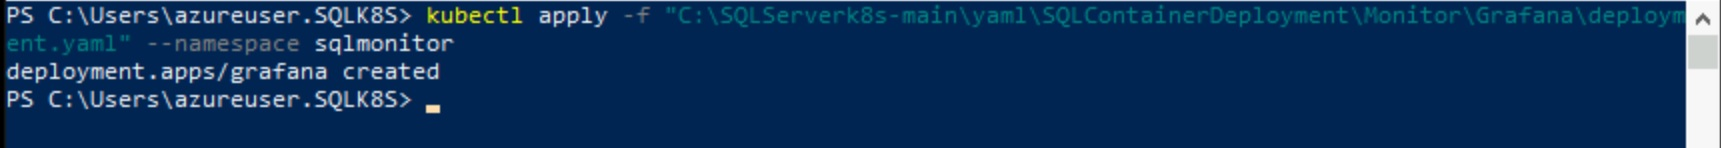
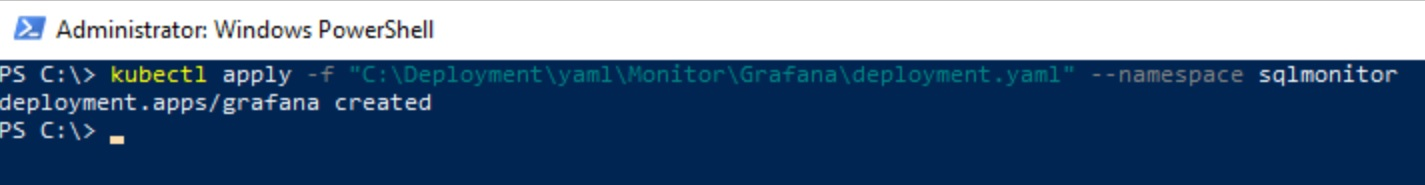
Update screenshots for monitor.md

diff --git a/modules/monitor.md b/modules/monitor.md
@@ -10,11 +10,18 @@ For this solution, you will be using InfluxDB to store the metric data, Telegraf
 
     ![Supply AD Credentials](media/SupplyADCredentials.jpg)
 
-2. Open Powershell
+2. Edit the following yaml files and replace all occurrences of \<IP Address Value\> with the parameter you supplied in the ARM template deployment.
+
+    * C:\Deployment\yaml\Monitor\Grafana\service.yaml
+    * C:\Deployment\yaml\Monitor\InfluxDB\service.yaml
+
+    ![Edit Yaml File](media/EditYamlFileGrafana.jpg)
+
+3. Open Powershell
 
     ![Open Powershell](media/OpenPowershell.jpg)
 
-3. Login to Azure AD with an account that has ownership permissions to your subscription
+4. Login to Azure AD with an account that has ownership permissions to your subscription
 
     ```text
     az login
@@ -26,7 +33,7 @@ For this solution, you will be using InfluxDB to store the metric data, Telegraf
 
     ![Azure CLI SignedIn Powershell](media/AzureCLISignedInPowershell.jpg)
 
-4. Create sqlmonitor namespace
+5. Create sqlmonitor namespace
 
     ```text
     kubectl create namespace sqlmonitor
@@ -34,7 +41,7 @@ For this solution, you will be using InfluxDB to store the metric data, Telegraf
 
     ![Create sqlmonitor Namespace](media/CreateSQLMonitorNamespace.jpg)
 
-5. Configure storage for InfluxDB
+6. Configure storage for InfluxDB
 
     ```text
     kubectl apply -f "C:\Deployment\yaml\Monitor\InfluxDB\storage.yaml" --namespace sqlmonitor
@@ -42,7 +49,7 @@ For this solution, you will be using InfluxDB to store the metric data, Telegraf
 
     ![Configure InfluxDB Storage](media/ConfigureInfluxDBStorage.jpg)
 
-6. Deploy InfluxDB
+7. Deploy InfluxDB
 
     ```text
     kubectl apply -f "C:\Deployment\yaml\Monitor\InfluxDB\deployment.yaml" --namespace sqlmonitor
@@ -50,7 +57,7 @@ For this solution, you will be using InfluxDB to store the metric data, Telegraf
 
     ![Deploy InfluxDB](media/DeployInfluxDB.jpg)
 
-7. Expose internal IP Address and Port for InfluxDB
+8. Expose internal IP Address and Port for InfluxDB
 
     ```text
     kubectl expose deployment influxdb --port=8086 --target-port=8086 --protocol=TCP --type=ClusterIP --namespace sqlmonitor
@@ -58,7 +65,7 @@ For this solution, you will be using InfluxDB to store the metric data, Telegraf
 
     ![Expose InfluxDB Service](media/ExposeInfluxDBService.jpg)
 
-8. Create internal load balancer for InfluxDB
+9. Create internal load balancer for InfluxDB
 
     ```text
     kubectl apply -f "C:\Deployment\yaml\Monitor\InfluxDB\service.yaml" --namespace sqlmonitor
@@ -66,7 +73,7 @@ For this solution, you will be using InfluxDB to store the metric data, Telegraf
 
     ![Create InfluxDB Internal Load Balancer](media/CreateInfluxDbIlb.jpg)
 
-9. Verify pod and services are running
+10. Verify pod and services are running
 
     ```text
     kubectl get pods -n sqlmonitor
@@ -78,11 +85,11 @@ For this solution, you will be using InfluxDB to store the metric data, Telegraf
 
     ![Verify InfluxDB Pod and Services](media/VerifyInfluxDB.jpg)
 
-10. Connect to InfluxDB via Edge (http://influxdb.sqlk8s.local:8086) and click **Get Started**
+11. Connect to InfluxDB via Edge (http://influxdb.sqlk8s.local:8086) and click **Get Started**
 
     ![Connect to InfluxDB](media/ConnectToInfluxDB.jpg)
 
-11. Enter the following and click **Continue**
+12. Enter the following and click **Continue**
 
 * User = root
 * Password = root1234
@@ -91,19 +98,19 @@ For this solution, you will be using InfluxDB to store the metric data, Telegraf
 
     ![InfluxDB Account Setup](media/InfluxDBAccount.jpg)
 
-12. Click the **Advanced** button on the Complete page
+13. Click the **Advanced** button on the Complete page
 
     ![InfluxDB Advanced](media/InfluxDBAdvanced.jpg)
 
-13. On the Load Data page, click the **Add Data** button in the sqlmon panel, then click **Configure Telegraf Agent**
+14. On the Load Data page, click the **Add Data** button in the sqlmon panel, then click **Configure Telegraf Agent**
 
     ![InfluxDB Buckets](media/InfluxDBBuckets.jpg)
 
-14. Ensure the bucket says **sqlmon** and then filter for, and choose the **SQL Server** data source. Click **Continue Configuring**
+15. Ensure the bucket says **sqlmon** and then filter for, and choose the **SQL Server** data source. Click **Continue Configuring**
 
     ![InfluxDB Config Telegraf for SQL](media/InfluxDBConfigureTelegrafSQL.jpg)
 
-15. Make the following configuration changes
+16. Make the following configuration changes
 
 * Configuration Name = sqlmon
     
@@ -131,11 +138,11 @@ For this solution, you will be using InfluxDB to store the metric data, Telegraf
         "Server=<mssql22-2-lb ClusterIP>;Port=1433;User Id=Telegraf;Password=<azurePassword>;app name=telegraf;log=1;",
     ```
 
-    Copy the server entries (lines 11-13 for one instance or 11-16 for both) and then click **Save and Test**
+    Copy the server entries because you will need them later (lines 11-13 for one instance or 11-16 for both) and then click **Save and Test**
 
     ![Edit InfluxDB Config](media/EditInfluxDBConfig.jpg)
 
-16. Edit **C:\Deployment\yaml\Monitor\Telegraf\config.yaml** in notepad
+17. Edit **C:\Deployment\yaml\Monitor\Telegraf\config.yaml** in notepad
 
     Replace lines 143-145 with the server configurations created in **Step 15**
 
@@ -155,11 +162,11 @@ For this solution, you will be using InfluxDB to store the metric data, Telegraf
 
     ![Telegraf Config Destination](media/TelegrafConfigDest.jpg)
 
-17. Go back to the \"Test your Configuration\" page and click **Finish**
+18. Go back to the \"Test your Configuration\" page and click **Finish**
 
     ![Test InfluxDB Config](media/TestInfluxDBConfig.jpg)
 
-18. Deploy the Telegraf configuration file
+19. Deploy the Telegraf configuration file
 
     ```text
         kubectl apply -f "C:\Deployment\yaml\Monitor\Telegraf\config.yaml" --namespace sqlmonitor
@@ -167,7 +174,7 @@ For this solution, you will be using InfluxDB to store the metric data, Telegraf
 
     ![Deploy Telegraf Config](media/DeployTelegrafConfig.jpg)
 
-19. Deploy the Telegraf agent
+20. Deploy the Telegraf agent
 
     ```text
         kubectl apply -f "C:\Deployment\yaml\Monitor\Telegraf\deployment.yaml" --namespace sqlmonitor
@@ -175,7 +182,7 @@ For this solution, you will be using InfluxDB to store the metric data, Telegraf
 
     ![Deploy Telegraf](media/DeployTelegraf.jpg)
 
-20. Explose the Telegraf agent service
+21. Explose the Telegraf agent service
 
     ```text
         kubectl expose deployment telegraf --port=8125 --target-port=8125 --protocol=UDP --type=NodePort --namespace sqlmonitor
@@ -183,7 +190,7 @@ For this solution, you will be using InfluxDB to store the metric data, Telegraf
 
     ![Expose Telegraf Service](media/ExposeTelegrafService.jpg)
 
-21. Verify pod and service are running
+22. Verify pod and service are running
 
     ```text
     kubectl get pods -n sqlmonitor
@@ -195,11 +202,11 @@ For this solution, you will be using InfluxDB to store the metric data, Telegraf
 
     ![Verify Telegraf Pod and Service](media/VerifyTelegraf.jpg)
 
-22. Go back to the InfluxDB web app and select **Buckets** and then **sqlmon**
+23. Go back to the InfluxDB web app and select **Buckets** and then **sqlmon**
 
     ![Query sqlmon bucket](media/QueryBucket.jpg)
 
-23. Verify data is being collected by replacing the contents of the flux script with the script below and then click **Run**
+24. Verify data is being collected by replacing the contents of the flux script with the script below and then click **Run**
 
     ```text
     from(bucket: "sqlmon")
@@ -217,17 +224,17 @@ For this solution, you will be using InfluxDB to store the metric data, Telegraf
 
     ![Run Flux Query](media/RunFluxQuery.jpg)
 
-24. Go to API Tokens from the left menu blade and click **Generate API Token** followed by **Custom API Token**
+25. Go to API Tokens from the left menu blade and click **Generate API Token** followed by **Custom API Token**
 
     ![API Tokens](media/APITokens.jpg)
 
     ![Generate API Token](media/GenerateAPIToken.jpg)
 
-25. Click **Buckets** to expand the selection, then tick the **Read** box for **sqlmon** and click **Generate**
+26. Click **Buckets** to expand the selection, then tick the **Read** box for **sqlmon** and click **Generate**
 
     ![Read sqlmon token](media/ReadBucketToken.jpg)
 
-26. Copy the API Token to the clipboard and then paste into a notepad file to be used when configuring Grafana
+27. Copy the API Token to the clipboard and then paste into a notepad file to be used when configuring Grafana
 
     **NB: The Copy to Clipboard may not work.  If it doesn't then highlight the token and copy manually.**
 
